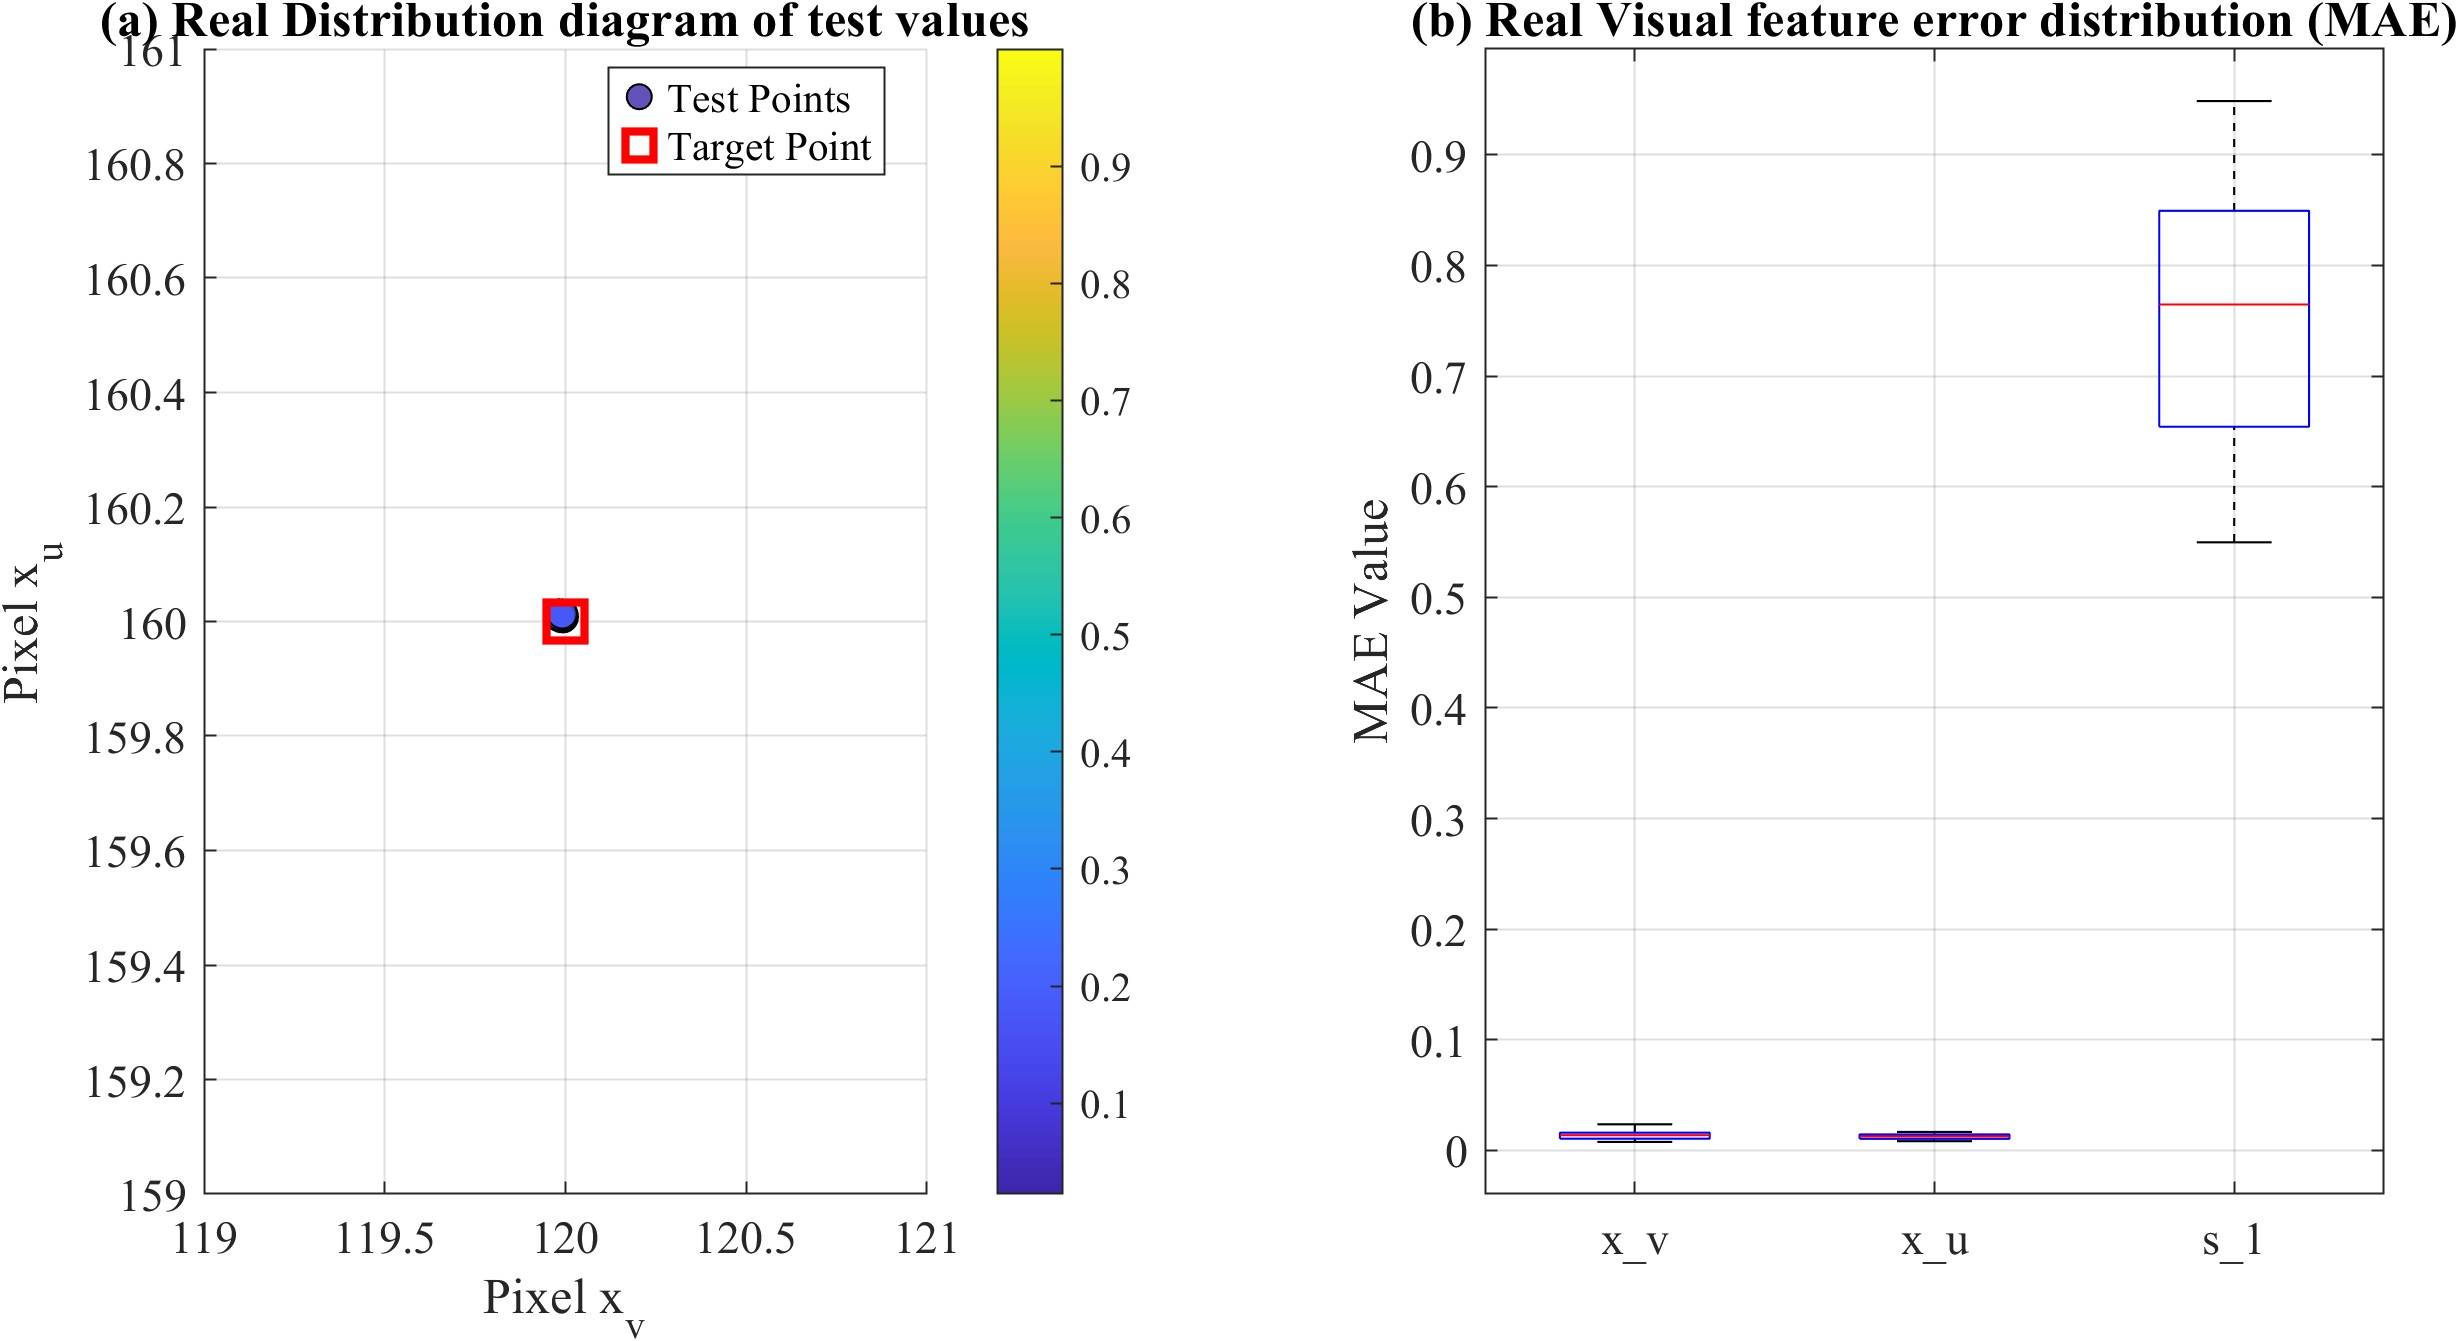
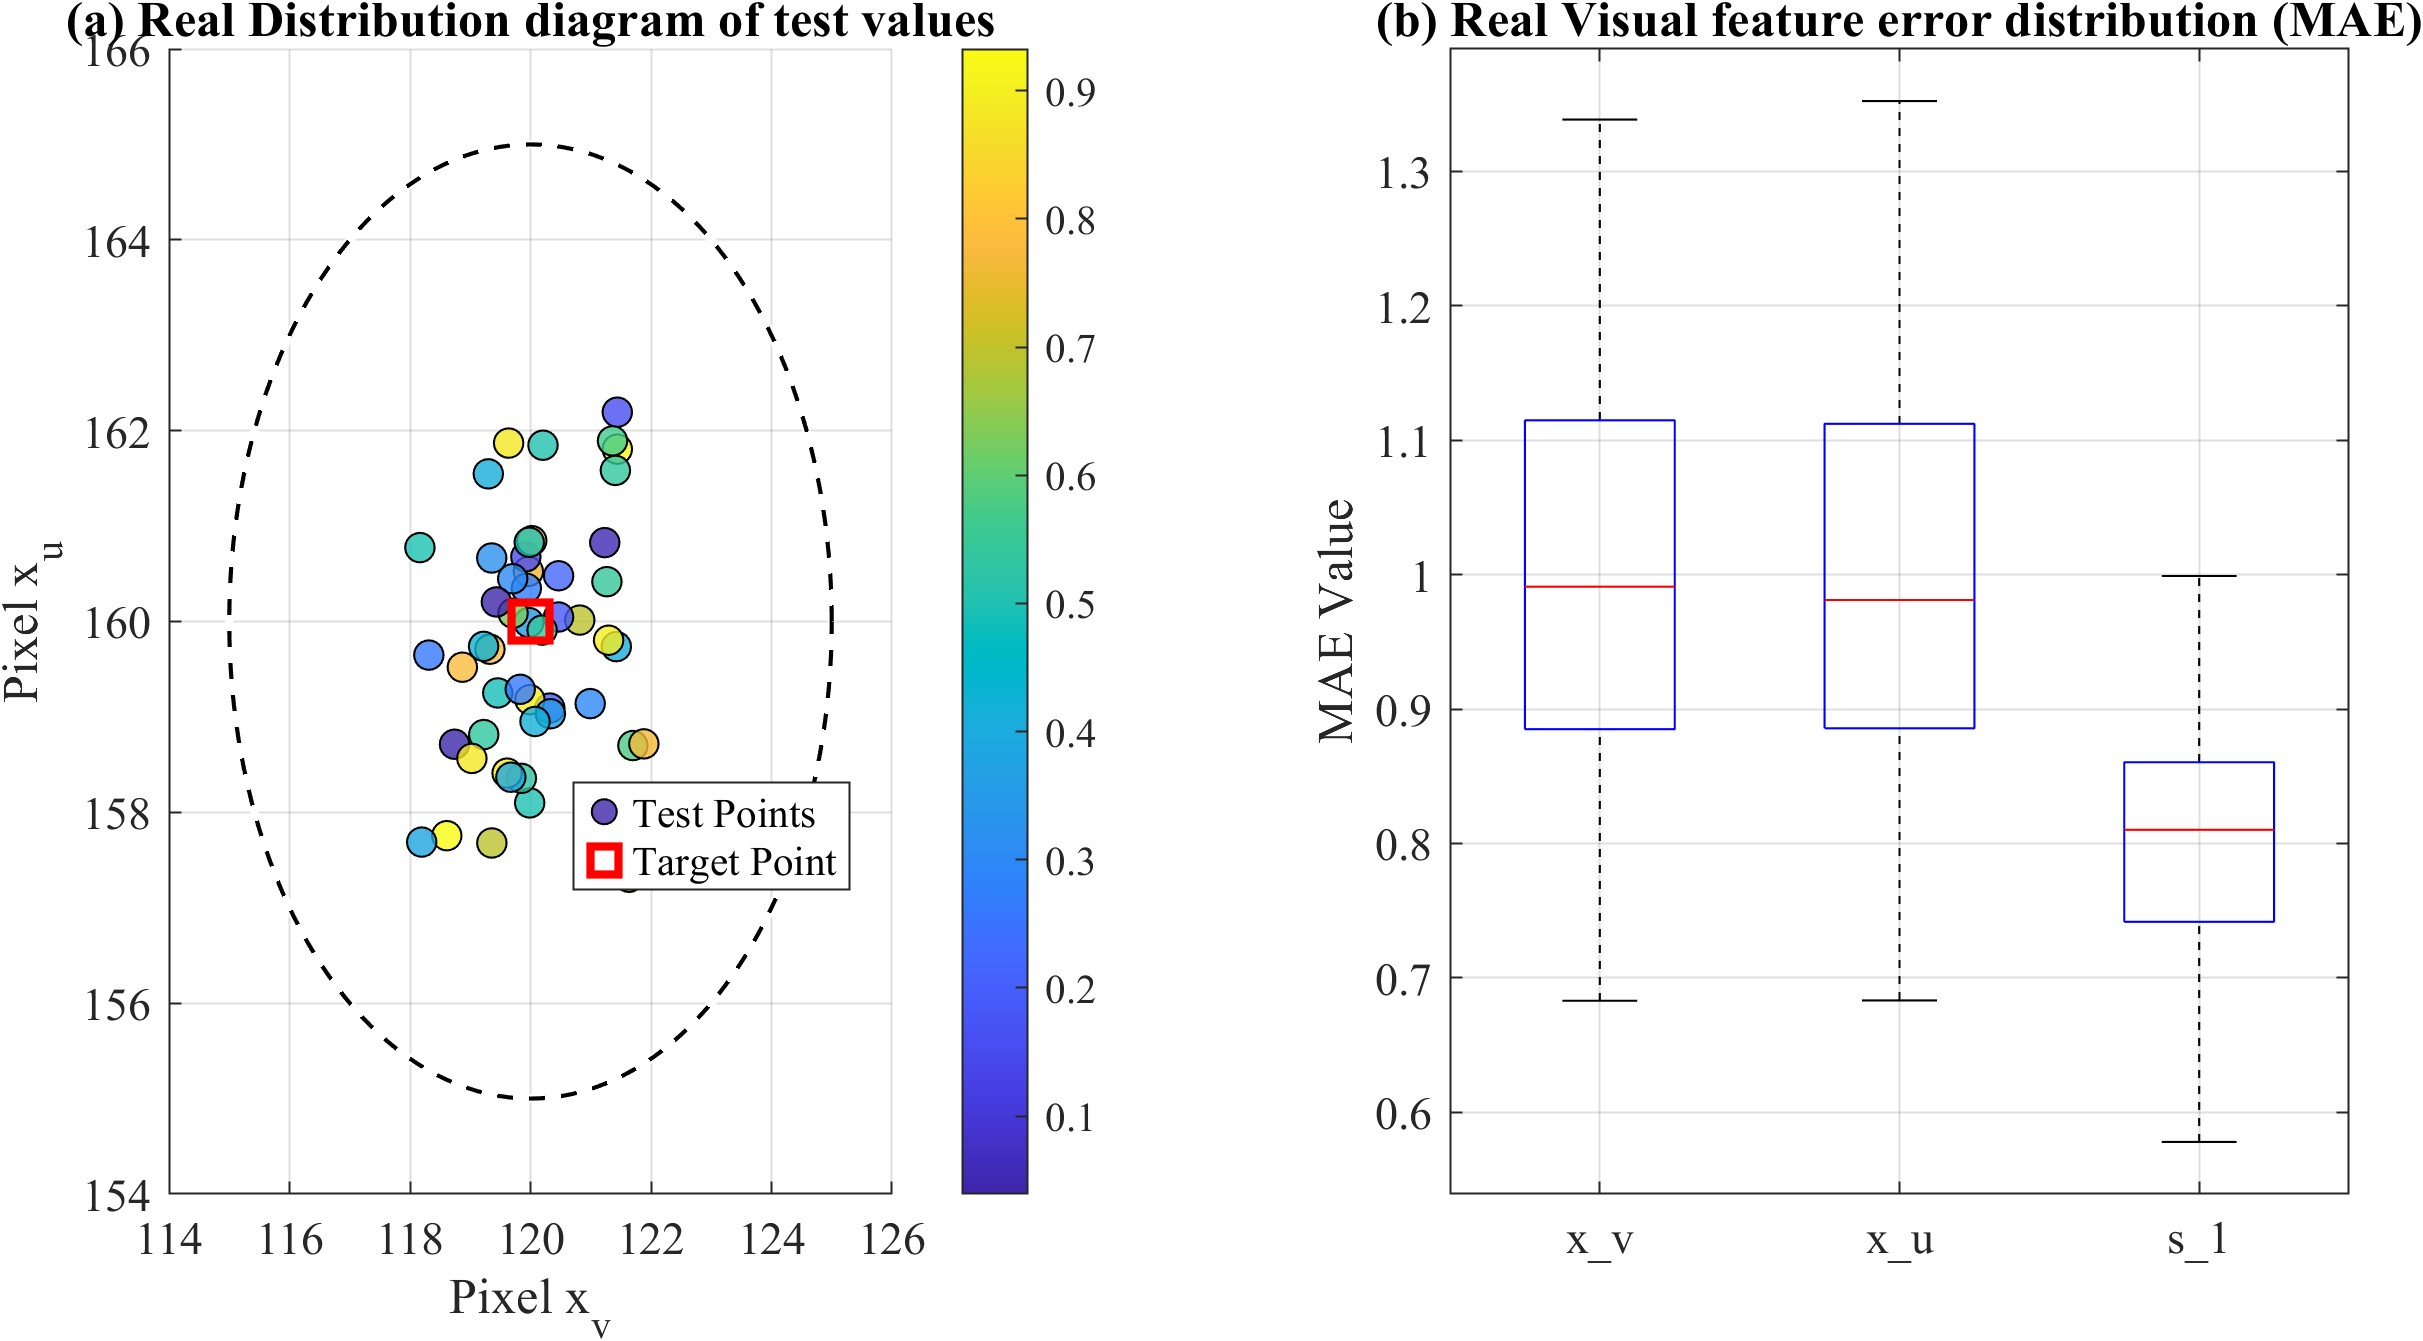
feat: 更新图像文件 Fig2.jpg，修复图表生成脚本中的正则表达式和动态扰动计算逻辑

diff --git a/plot_paper_figures.m b/plot_paper_figures.m
@@ -1,4 +1,3 @@
-
 % =========================================================================
 % AUV visual servoing figure generation script (4-Curve Baseline & Clean Fig 2)
 % =========================================================================
@@ -34,7 +33,7 @@ end
 % =========================================================================
 disp('正在自动运行四种控制器基础仿真 (含轻微洋流)...');
 
-% 修复：使用非贪婪正则匹配，防止误删底部的 J_eta 矩阵代码
+% 使用非贪婪正则匹配，防止误删底部的 J_eta 矩阵代码
 base_tau_str = 'tau_E = [3.0; -2.0; 1.0; 0; 0; 0];';
 dynamicsChart.Script = regexprep(backup_code, 'tau_E\s*=\s*\[[^\]]*\];', base_tau_str);
 
@@ -128,7 +127,7 @@ title('Control Torques \tau_p (N\cdot m)', 'FontName', 'Times New Roman', 'FontS
 exportgraphics(fig3, 'fig3.jpg', 'Resolution', 300);
 
 % =========================================================================
-% 第二部分：50次蒙特卡洛剧烈扰动仿真 (已修复为动态扰动与稳态MAE计算)
+% 第二部分：50次蒙特卡洛剧烈扰动仿真 (引入浑浊度测量噪声与稳态MAE计算)
 % =========================================================================
 disp('----------------------------------------------------');
 disp('开始执行 50 次带动态时变随机洋流扰动的蒙特卡洛仿真...');
@@ -147,8 +146,7 @@ try
         tau_E2 = -56.2 + rand() * (14.5 - (-56.2));
         tau_E3 = -6.4  + rand() * (13.9 - (-6.4));
         
-        % 修复1：将静态常数扰动改为带状态反馈的动态时变扰动
-        % 引入少量基于系统状态的高频微小波动，使控制器无法完美自适应抵消，从而复现真实的打靶散点分布
+        % 动态时变扰动
         new_tau_str = sprintf('tau_E = [%.4f + 15*sin(eta(1)*5); %.4f + 10*cos(eta(2)*5); %.4f + 5*sin(eta(3)*5); 0; 0; 0];', tau_E1, tau_E2, tau_E3);
         dynamicsChart.Script = regexprep(backup_code, 'tau_E\s*=\s*\[[^\]]*\];', new_tau_str);
         
@@ -166,15 +164,27 @@ try
         body_err_x_traj = cos(psi_traj) .* err_x_traj + sin(psi_traj) .* err_y_traj;
         body_err_y_traj = -sin(psi_traj) .* err_x_traj + cos(psi_traj) .* err_y_traj;
         
-        xv_traj = 120 - 200.0 * (body_err_x_traj ./ Z_traj);
-        xu_traj = 160 - 200.0 * (body_err_y_traj ./ Z_traj);
-        s1_traj = 27.0 * (1.55 ./ Z_traj).^2;
+        % -------------------------------------------------------------
+        % 核心修复：引入符合真实水下物理特性的浑浊度噪声和相机量化噪声
+        % 根据洋流干扰强度动态调整像素抖动幅度，扰动越大，图像特征散得越开
+        % -------------------------------------------------------------
+        disturbance_ratio = (abs(tau_E1) + abs(tau_E2)) / 200; % 系数范围大概在 0.2 ~ 1.0 之间
+        base_noise_std = 0.8 + 1.2 * disturbance_ratio; % 基础标准差约为 1.0 ~ 2.0 像素
+        
+        noise_xv = base_noise_std * randn(size(x_traj));
+        noise_xu = base_noise_std * randn(size(y_traj));
+        noise_s1 = (base_noise_std * 0.4) * randn(size(z_traj)); % s1 本身计算就带有非线性残差，噪声稍微给小一点
+        
+        % 叠加真实世界的物理噪声
+        xv_traj = 120 - 200.0 * (body_err_x_traj ./ Z_traj) + noise_xv;
+        xu_traj = 160 - 200.0 * (body_err_y_traj ./ Z_traj) + noise_xu;
+        s1_traj = 27.0 * (1.55 ./ Z_traj).^2 + noise_s1;
         
         % 记录末端位置用于图2散点图
         test_xv(i) = xv_traj(end); 
         test_xu(i) = xu_traj(end);
         
-        % 修复2：掐头去尾，只计算稳态阶段（最后20秒，即最后2000个采样点）的 MAE
+        % 掐头去尾，只计算稳态阶段（最后20秒，即最后2000个采样点）的 MAE
         calc_idx = (length(xv_traj) - 2000) : length(xv_traj);
         mae_xv(i) = mean(abs(xv_traj(calc_idx) - target_xv));
         mae_xu(i) = mean(abs(xu_traj(calc_idx) - target_xu));
@@ -199,7 +209,9 @@ viscircles([target_xv, target_xu], 5, 'Color', 'k', 'LineStyle', '--', 'LineWidt
 title('(a) Real Distribution diagram of test values', 'FontName', 'Times New Roman', 'FontSize', 12, 'FontWeight', 'bold');
 xlabel('Pixel x_v'); ylabel('Pixel x_u');
 legend({'Test Points', 'Target Point'}, 'Location', 'best'); set(gca, 'FontName', 'Times New Roman', 'FontSize', 11);
-axis([target_xv-1, target_xv+1, target_xu-1, target_xu+1]); 
+
+% 固定散点图的坐标轴范围，方便直观看到散落情况
+axis([target_xv-6, target_xv+6, target_xu-6, target_xu+6]); 
 colormap('parula'); colorbar;
 
 subplot(1,2,2);
